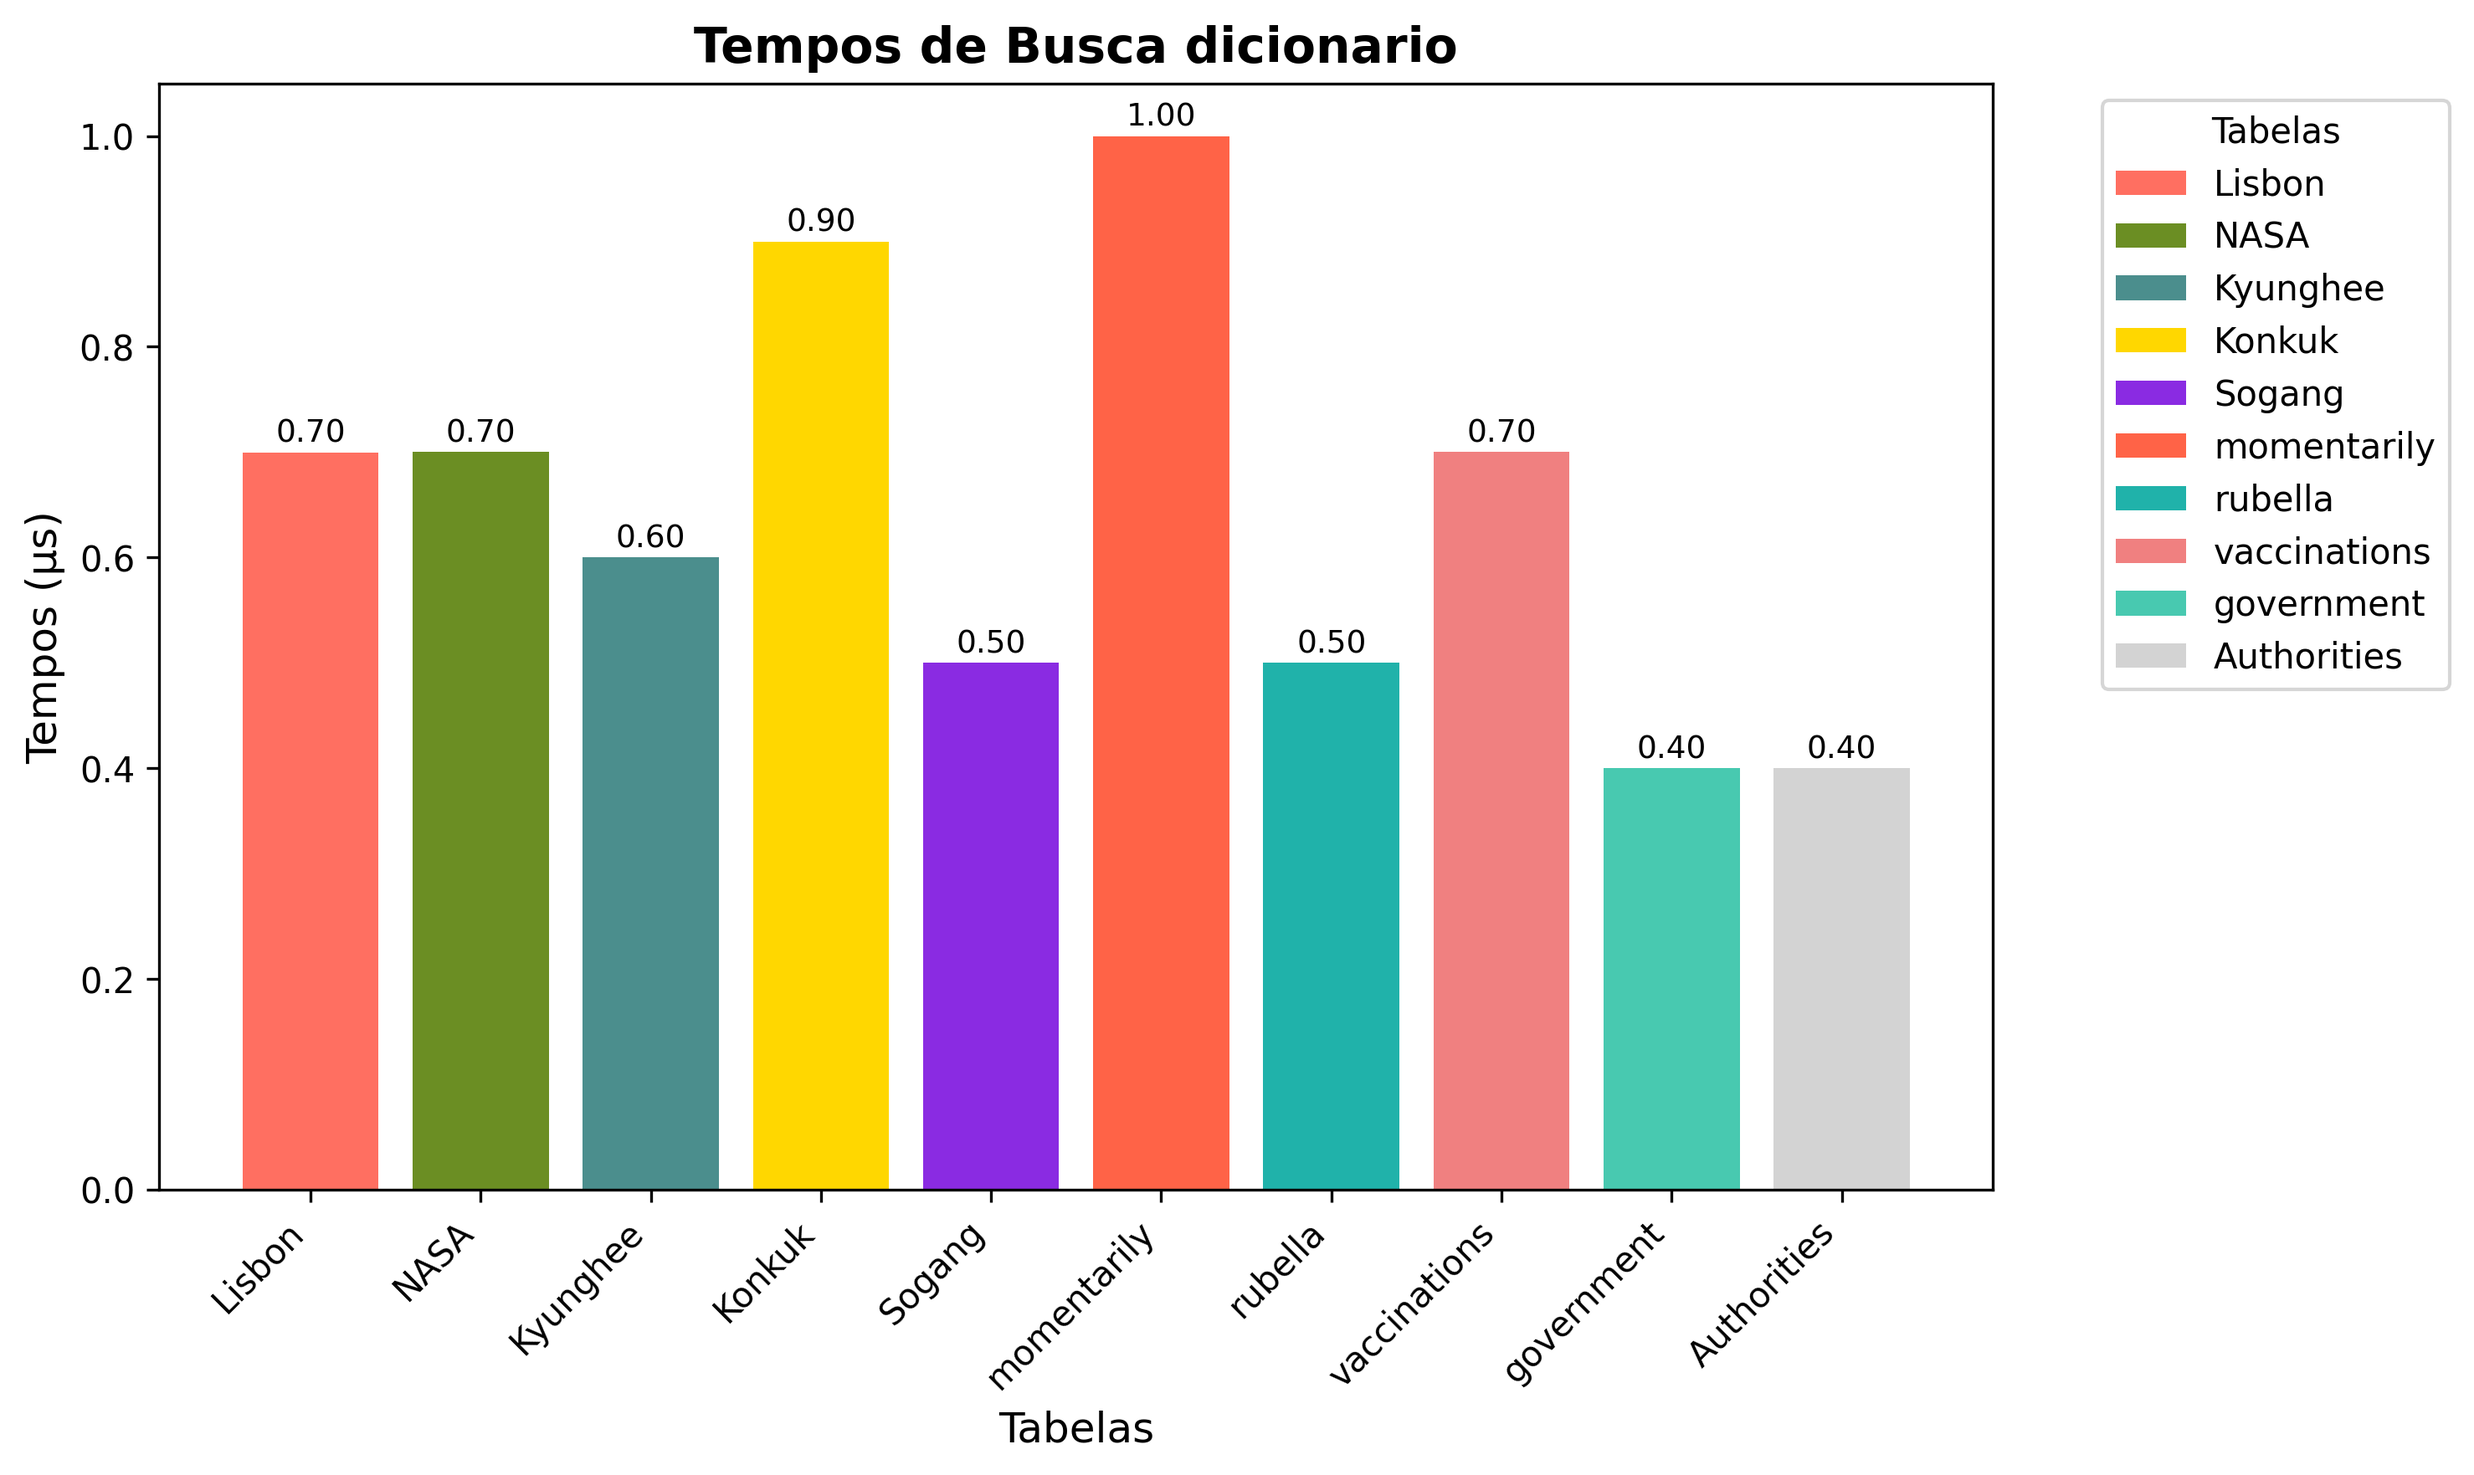
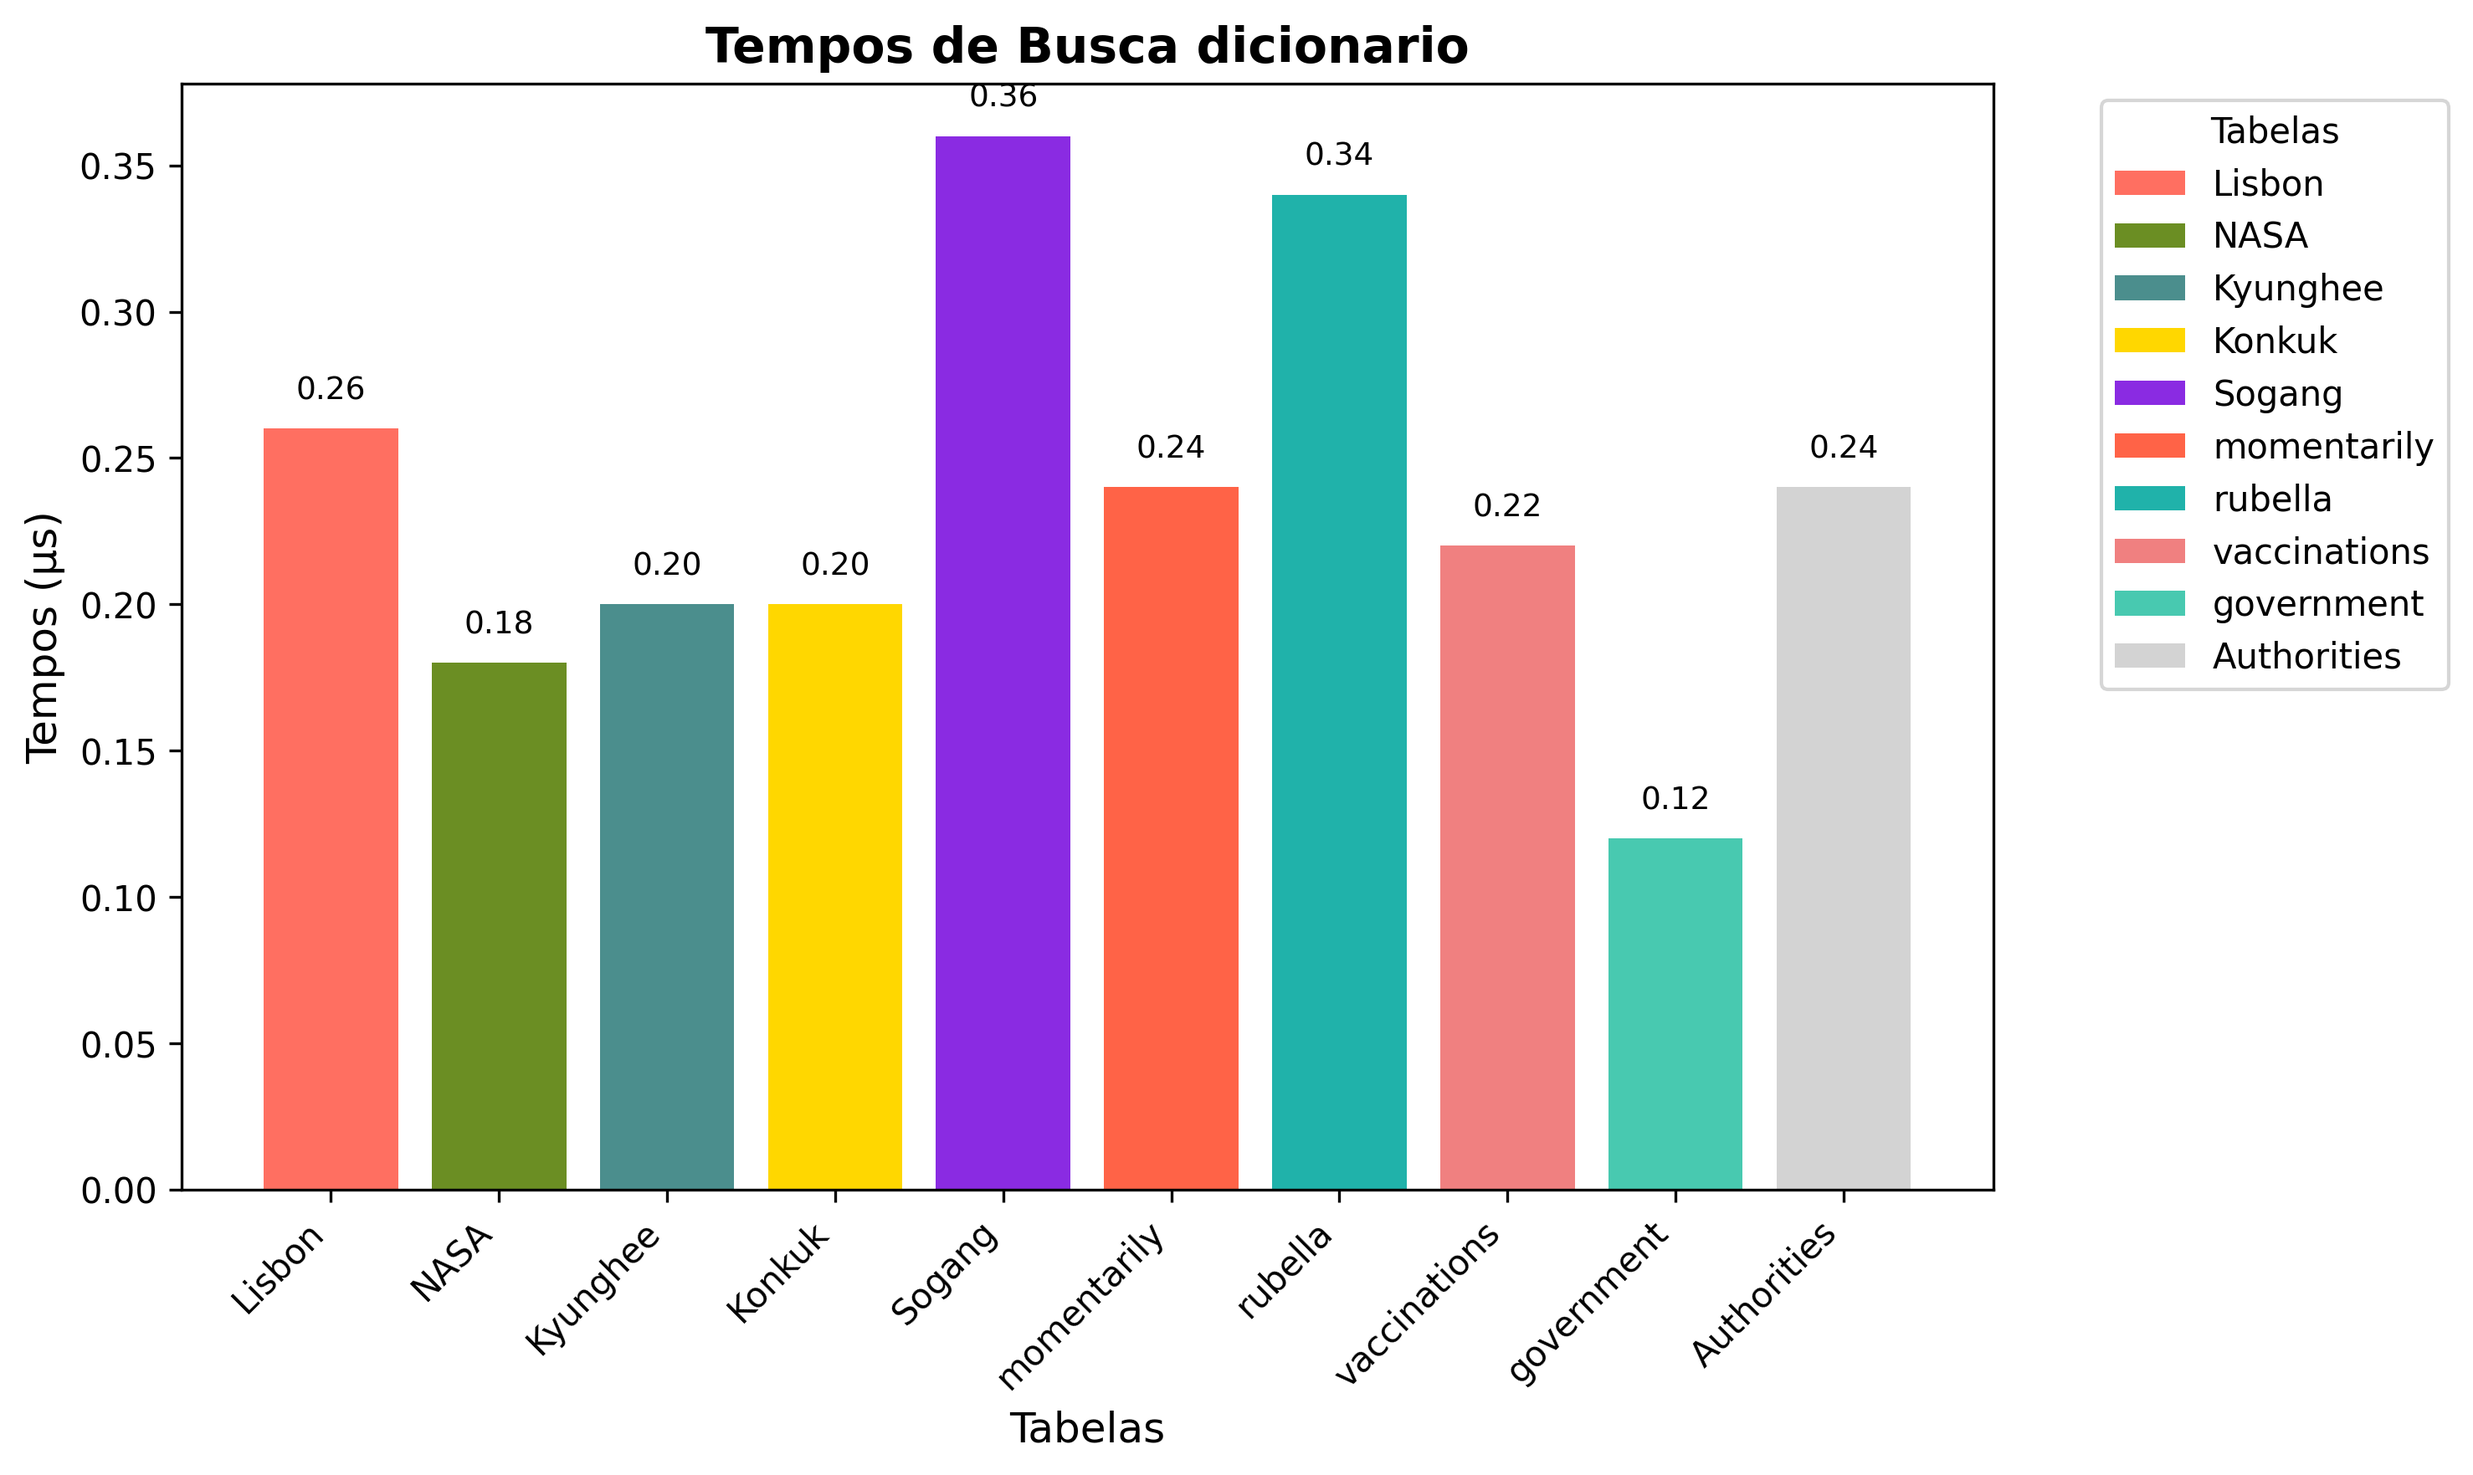
cu

diff --git a/TrabalhoFinal/delete_leipzig.py b/TrabalhoFinal/delete_leipzig.py
@@ -33,20 +33,32 @@ palavras = ["Lisbon", "NASA",
 "Kyunghee", "Konkuk", "Sogang", "momentarily", "rubella", "vaccinations", "government",
 "Authorities"]
 
+media = 5
+
 tempos_lista_dict = []
 for i in palavras:
-    tempo = menu.delete_lista_dict(tabela_lista_dict, i)
-    tempos_lista_dict.append(tempo[0] * 10e4)
+    sum = 0
+    for _ in range(media):
+        tempo = menu.delete_lista_dict(tabela_lista_dict, i)
+        sum += tempo[0]
+    tempos_lista_dict.append((sum/media) * 1e6)
+
 
 tempos_counter = []
 for i in palavras:
-    tempo = menu.delete_dict(tabela_counter, i)
-    tempos_counter.append(tempo[0] * 10e4)
+    sum = 0
+    for _ in range(media):
+        tempo = menu.delete_dict(tabela_counter, i)
+        sum += tempo[0]
+    tempos_counter.append((sum/media) * 1e6)
 
 tempos_dict = []
 for i in palavras:
-    tempo = menu.delete_dict(tabela_dict, i)
-    tempos_dict.append(tempo[0] * 10e4)
+    sum = 0
+    for _ in range(media):
+        tempo = menu.delete_dict(tabela_dict, i)
+        sum += tempo[0]
+    tempos_dict.append((sum/media) * 1e6)
 
 for i in palavras:
     x = menu.busca_lista_dict(tabela_lista_dict, i)
@@ -60,6 +72,6 @@ for i in palavras:
     x = menu.busca_dict(tabela_dict, i)
     print(x)
 
-menu.costruir_grafico(palavras, tempos_lista_dict,Xlabel='Tabelas',Ylabel='Tempos (ms)',title='Tempos de Deleção hashtable', save_path= "deleteTimesListDict.png",directory= "TrabalhoFinal/tempos") 
-menu.costruir_grafico(palavras, tempos_counter,Xlabel='Tabelas',Ylabel='Tempos (ms)',title='Tempos de Deleção counter', save_path= "deleteTimesCounter.png",directory= "TrabalhoFinal/tempos") 
-menu.costruir_grafico(palavras, tempos_dict,Xlabel='Tabelas',Ylabel='Tempos (ms)',title='Tempos de Deleção  dicionario', save_path= "deleteTimesDict.png",directory= "TrabalhoFinal/tempos") 
+menu.costruir_grafico(palavras, tempos_lista_dict,Xlabel='Tabelas',Ylabel='Tempos (µs)',title='Tempos de Deleção hashtable', save_path= "deleteTimesListDict.png",directory= "TrabalhoFinal/tempos") 
+menu.costruir_grafico(palavras, tempos_counter,Xlabel='Tabelas',Ylabel='Tempos (µs)',title='Tempos de Deleção counter', save_path= "deleteTimesCounter.png",directory= "TrabalhoFinal/tempos") 
+menu.costruir_grafico(palavras, tempos_dict,Xlabel='Tabelas',Ylabel='Tempos (µs)',title='Tempos de Deleção  dicionario', save_path= "deleteTimesDict.png",directory= "TrabalhoFinal/tµspos") 

diff --git a/TrabalhoFinal/busca_Leipizig.py b/TrabalhoFinal/busca_Leipizig.py
@@ -32,21 +32,33 @@ tabela_dict = uso_dict()
 palavras = ["Lisbon", "NASA",
 "Kyunghee", "Konkuk", "Sogang", "momentarily", "rubella", "vaccinations", "government",
 "Authorities"]
+
+media = 5
+
 tempos_lista_dict = []
 for i in palavras:
-    tempo = menu.busca_lista_dict(tabela_lista_dict, i)
-    tempos_lista_dict.append(tempo[0] * 1e6)
+    sum = 0
+    for _ in range(media):
+        tempo = menu.busca_lista_dict(tabela_lista_dict, i)
+        sum += tempo[0]
+    tempos_lista_dict.append((sum/media) * 1e6)
 
 
 tempos_counter = []
 for i in palavras:
-    tempo = menu.busca_dict(tabela_counter, i)
-    tempos_counter.append(tempo[0] * 1e6)
+    sum = 0
+    for _ in range(media):
+        tempo = menu.busca_dict(tabela_counter, i)
+        sum += tempo[0]
+    tempos_counter.append((sum/media) * 1e6)
 
 tempos_dict = []
 for i in palavras:
-    tempo = menu.busca_dict(tabela_dict, i)
-    tempos_dict.append(tempo[0] * 1e6)
+    sum = 0
+    for _ in range(media):
+        tempo = menu.busca_dict(tabela_dict, i)
+        sum += tempo[0]
+    tempos_dict.append((sum/media) * 1e6)
 
 menu.costruir_grafico(palavras, tempos_lista_dict,Xlabel='Tabelas',Ylabel='Tempos (µs )',title='Tempos de Busca hash table', save_path= "searchTimesListDict.png",directory= "TrabalhoFinal\\tempos") 
 menu.costruir_grafico(palavras, tempos_counter,Xlabel='Tabelas',Ylabel='Tempos (µs )',title='Tempos de Busca counter', save_path= "searchTimesCounter.png",directory= "TrabalhoFinal\\tempos") 
